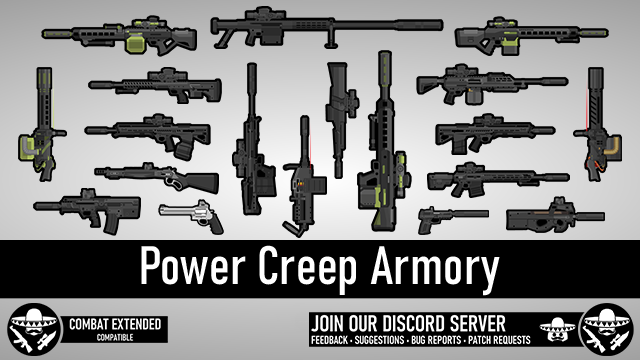
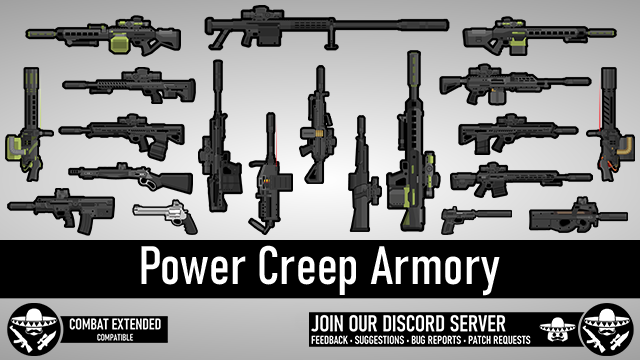
MGA SAW

Changed region(s): [[0.0, 0.0, 1.0, 0.6722], [0.5938, 0.0306, 0.625, 0.0917], [0.5, 0.0306, 0.5312, 0.0611]]

diff --git a/README.md b/README.md
@@ -1,7 +1,7 @@
 # PowerCreepArmory
 Power Creep Armory mod for Rimworld
 
-This mod adds several new guns, apparel and buildings designed to take advantage of CE mechanics while filling in niches in the vanilla lineup in a way that the included items are both balanced and fairly stronger than the other modded options in the workshop.
+This mod adds several new guns, apparel and buildings designed to take advantage of CE and vanilla mechanics while filling in niches in the vanilla lineup in a way that the included items are both balanced and reasonably stronger than the other modded options in the workshop.
 
 Compatible with both the vanilla combat system and CE.
 
@@ -26,6 +26,7 @@ Compatible with both the vanilla combat system and CE.
 - Anzio 20mm Tactical
 - A-20 advanced charge AMR
 ### Machine guns
+- Machine Gun Armory SAW Tactical
 - Empty Shell XM556 Microgun Tactical
 - Portable NeoStrike machine gun Tactical
 - SIG SAUER MG 338 Tactical
